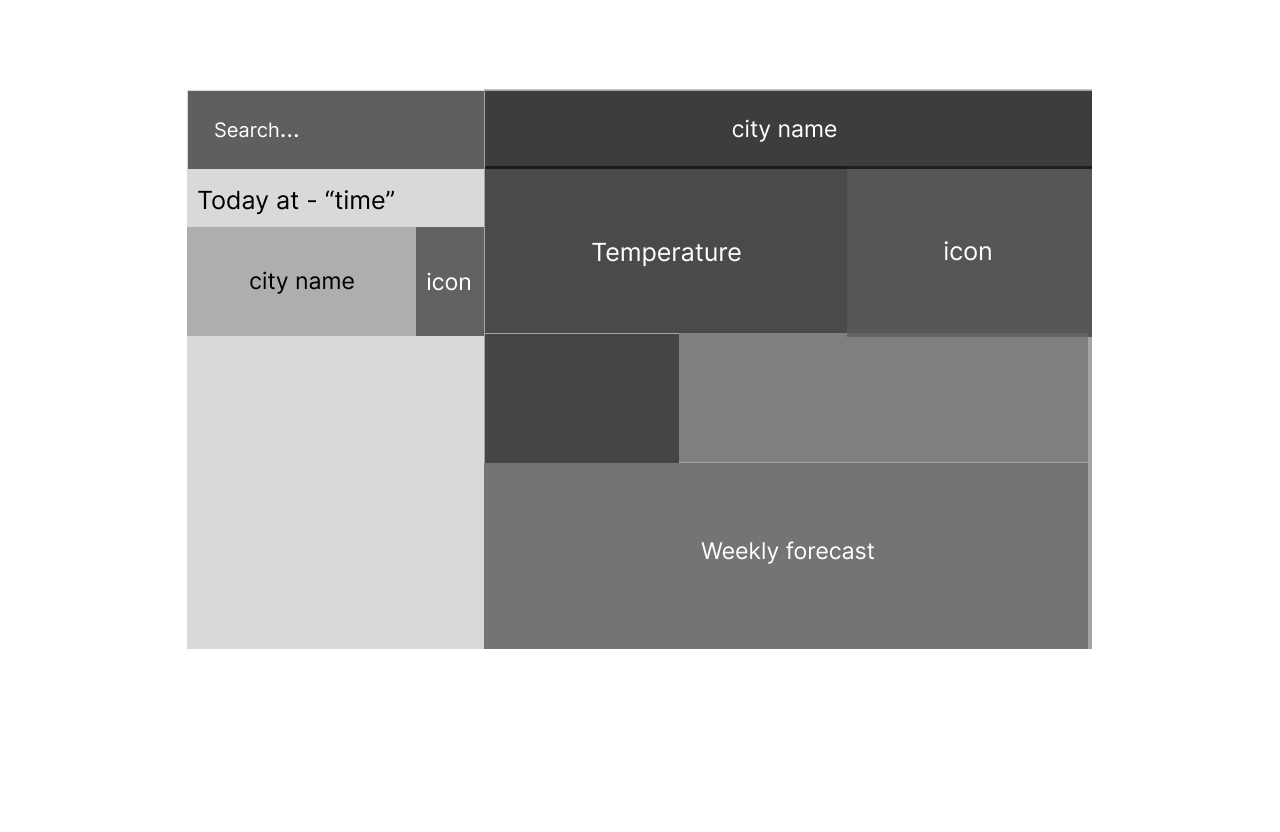
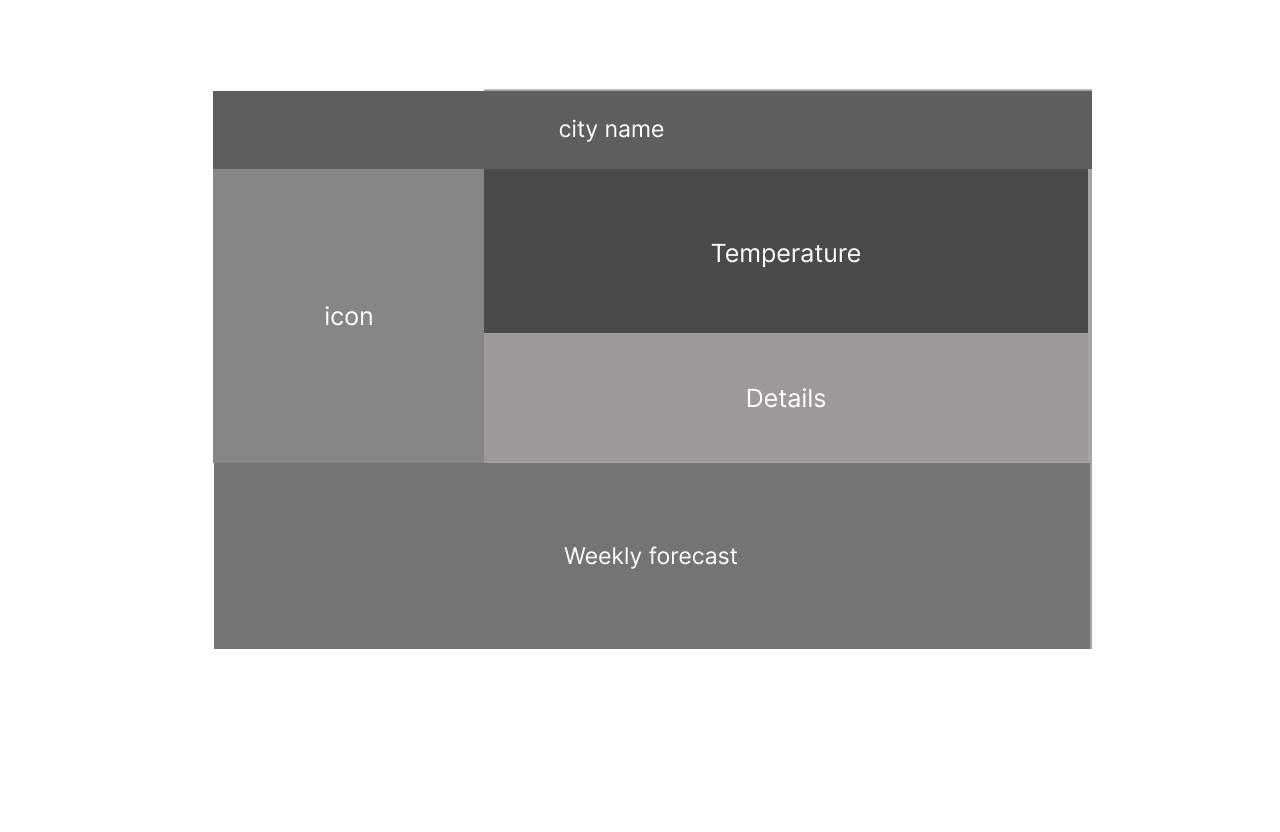
v1.2

diff --git a/src/style.css b/src/style.css
@@ -1,11 +1,15 @@
+/* <a href="https://www.vecteezy.com/free-vector/weather">Weather Vectors by Vecteezy</a> */
+
+/* Varibales */
 :root {
   --primary-color: #fff;
   --secondary-color: #000;
-  --background-color: #cce6e6;
+  --background-color: #f5fbff;
+  --search-bg: #f3f2f2;
   --color-i: #22223b;
   --color-ii: #023047;
   --color-iii: #219ebc;
-  --color-iv: #6798c0;
+  --color-iv: #cfcfcf;
   --color-v: #758bfd;
   --color-vi: #6a040f;
   --color-vii: #d00000;
@@ -15,14 +19,117 @@
   --color-xi: #dbd816;
 }
 
+/* All elements and body */
+
 body {
   background-color: var(--background-color);
   padding: 0;
   margin: 0;
   box-sizing: border-box;
+  font-size: 1rem;
+  overflow: hidden;
 }
 
 * {
-  font-size: 18px;
-  font-family: "Poppins", sans-serif;
+  color: var(--secondary-color);
+  font-family: "Montserrat", sans-serif;
+}
+
+/* Fixed classes */
+
+.displayFlex {
+  display: flex;
+  justify-content: center;
+  align-items: center;
+}
+
+/* Main and All section */
+
+main {
+  width: 100vw;
+  height: 100vh;
+  margin: 0;
+  display: flex;
+  justify-content: center;
+  align-items: center;
+}
+
+.all-container {
+  width: 70%;
+  height: 80%;
+  background-color: var(--primary-color);
+  align-items: flex-start;
+  justify-content: flex-start;
+  flex-direction: column;
+  border: none;
+  border-radius: 10px;
+  overflow: hidden;
+  box-shadow: #00000005 0px 1px 3px 0px, #1b1f2326 0px 0px 0px 1px;
+}
+
+/* Weather top */
+
+.weather-top {
+  width: 100%;
+  height: 10%;
+}
+
+.search-container {
+  width: 100%;
+  height: 100%;
+}
+
+#searchBar {
+  outline: none;
+  width: 90%;
+  height: 25%;
+  padding: 10px;
+  border: solid 2px var(--search-bg);
+  background-color: var(--search-bg);
+  border-radius: 10px;
+  text-align: center;
+  font-size: 1rem;
+}
+
+#searchBar:focus {
+  outline: none;
+  background-color: #e7e7e7;
+}
+
+/* Weather mid */
+
+.weather-mid {
+  width: 100%;
+  height: 45%;
+  background-color: #a09c9c;
+}
+
+.icon-container {
+  width: 30%;
+  height: 100%;
+  background-color: var(--color-iv);
+}
+
+.details-container {
+  width: 70%;
+  height: 100%;
+  background-color: var(--color-i);
+}
+
+.temperature-container {
+  width: 100%;
+  height: 50%;
+  justify-content: flex-start;
+}
+
+.temp {
+  margin-left: 20px;
+  width: 20%;
+  height: 80%;
+  font-size: 4.5rem;
+}
+
+.overview-container {
+  width: 100%;
+  height: 50%;
 }

diff --git a/index.html b/index.html
@@ -5,17 +5,53 @@
     <meta http-equiv="X-UA-Compatible" content="IE=edge" />
     <meta name="viewport" content="width=device-width, initial-scale=1.0" />
     <link rel="stylesheet" href="./src/style.css" />
+    <link rel="preconnect" href="https://fonts.googleapis.com" />
+    <link rel="preconnect" href="https://fonts.gstatic.com" crossorigin />
+    <link
+      href="https://fonts.googleapis.com/css2?family=Montserrat&display=swap"
+      rel="stylesheet"
+    />
     <script defer src="./src/index.js"></script>
     <title>Weather unsaved</title>
   </head>
   <body>
     <main>
       <!-- primary box -->
-      <section class="forecast-container">
-        <!-- search and searched items -->
-        <section class="searched-container"></section>
+
+      <section class="all-container displayFlex">
+        <!-- search box -->
+
+        <section class="weather-top displayFlex">
+          <div class="search-container displayFlex">
+            <input
+              id="searchBar"
+              placeholder="Search. . ."
+              value=""
+              maxlength="45"
+              autocomplete="off"
+            />
+          </div>
+        </section>
+
         <!-- weather forecast -->
-        <section class="weather-container"></section>
+
+        <section class="weather-mid displayFlex">
+          <div class="icon-container">
+            <img id="icon" alt="icon" src="" />
+          </div>
+          <div class="details-container">
+            <div class="temperature-container displayFlex">
+              <p class="temp">24c</p>
+            </div>
+            <div class="overview-container">b</div>
+          </div>
+        </section>
+
+        <!-- weekly overview -->
+
+        <section class="weather-bottom">
+          <div class="weeklyForecast-container"></div>
+        </section>
       </section>
     </main>
   </body>

diff --git a/src/index.js b/src/index.js
@@ -1,0 +1,21 @@
+// api url
+const api_url = "https://mocki.io/v1/d4867d8b-b5d5-4a48-a4ab-79131b5809b8";
+
+// Defining async function
+function fetchDemo() {
+  return fetch(
+    "https://api.openweathermap.org/data/2.5/weather?q=dhaka&unit=metric&appid=1636391821c200596baec77debe541c5"
+  )
+    .then(function (response) {
+      return response.json();
+    })
+    .then(function (json) {
+      return json;
+    });
+}
+
+fetchDemo().then(function (result) {
+  console.log(result);
+});
+
+// Calling that async function

diff --git a/readme.md b/readme.md
@@ -1,0 +1,3 @@
+## Weather unsaved is a weather forecasting web app using openweathermap
+
+#### Date started : 19/01/2023
